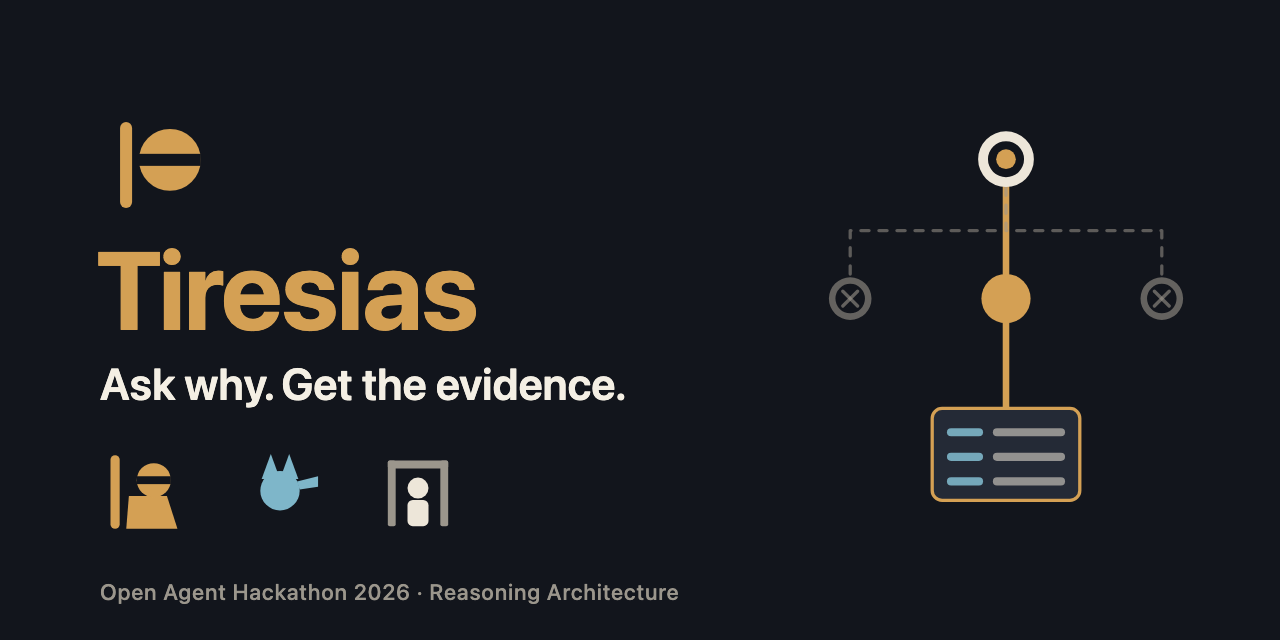
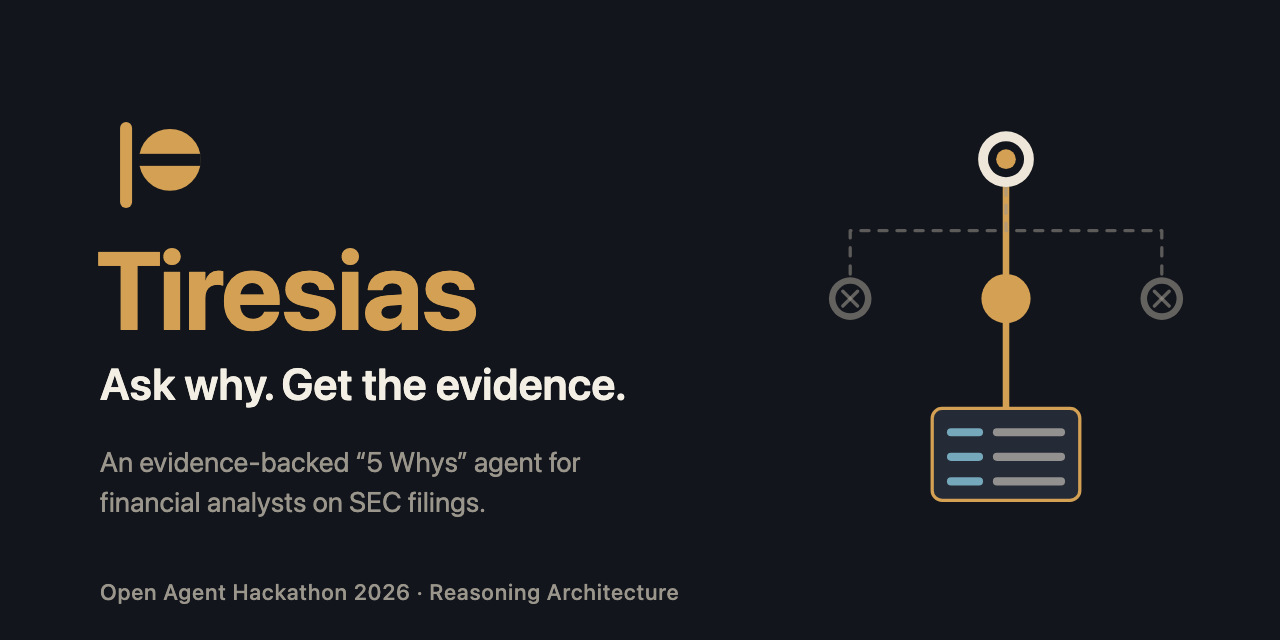
Make the brand readable where a judge actually looks.
Label the why-tree, drop the unlabelled social icons, and give You, the Sphinx, and the stepper one picture and one colour each.

Changed region(s): [[0.0625, 0.6875, 0.4688, 0.8438]]

diff --git a/services/agent/src/tiresias_agent/web/app.css b/services/agent/src/tiresias_agent/web/app.css
@@ -65,6 +65,7 @@ code, pre, .mono { font-family: var(--mono); font-size: 12.5px; }
 .who-icon { width: 22px; height: 22px; }
 .inline-icon { width: 16px; height: 16px; vertical-align: -3px; }
 .empty { color: var(--stone); }
+.empty-tree { display: block; width: 100%; max-height: 140px; object-fit: contain; margin: 0 auto 8px; }
 .note { color: var(--stone); font-size: 13px; }
 .demo-note { border: 1px solid var(--line); border-radius: 6px; padding: 8px 10px; }
 
@@ -276,8 +277,8 @@ pre { white-space: pre-wrap; overflow-wrap: anywhere; background: var(--ink-3); 
   font-size: 11px; font-weight: 600; letter-spacing: .02em; color: var(--stone); background: transparent;
   border: 0; border-right: 1px solid var(--line); }
 .s-progress .step:last-child { border-right: 0; }
-.s-progress .step-btn { all: unset; box-sizing: border-box; display: block; width: 100%; cursor: pointer;
-  padding: 8px 6px; color: inherit; text-align: center; }
+.s-progress .step-btn { all: unset; box-sizing: border-box; display: flex; flex-direction: row; align-items: center;
+  justify-content: center; gap: 4px; width: 100%; cursor: pointer; padding: 8px 6px; color: inherit; text-align: center; }
 .s-progress .step-btn:focus-visible { outline: 2px solid var(--celeste); outline-offset: -2px; }
 .s-progress .step.done { background: #3d4a32; color: var(--parchment); }
 .s-progress .step.active { background: var(--bronze); color: var(--ink); }
@@ -285,6 +286,9 @@ pre { white-space: pre-wrap; overflow-wrap: anywhere; background: var(--ink-3); 
 .s-progress.complete .step.done { background: var(--sage); color: var(--ink); }
 .s-progress .step.focus { box-shadow: inset 0 0 0 2px var(--parchment); }
 .s-progress .step-label { display: block; white-space: nowrap; overflow: hidden; text-overflow: ellipsis; }
+.step-icon { width: 12px; height: 12px; flex: none; background: currentColor;
+  -webkit-mask: var(--icon) center / contain no-repeat;
+  mask: var(--icon) center / contain no-repeat; }
 @keyframes pulse { 50% { opacity: .2; } }
 @media (prefers-reduced-motion: reduce) { .msg.typing .bubble { animation: none; } }
 
@@ -343,17 +347,20 @@ pre { white-space: pre-wrap; overflow-wrap: anywhere; background: var(--ink-3); 
 .msg.you, .msg.sphinx, .msg.decision { justify-content: flex-end; }
 .msg.you .avatar, .msg.sphinx .avatar, .msg.decision .avatar { order: 1; }
 .avatar { width: 40px; height: 40px; border-radius: 50%; object-fit: cover; background: var(--ink-3); flex: none; }
+.msg.tiresias .avatar { outline: 2px solid var(--bronze); outline-offset: 2px; }
+.msg.sphinx .avatar { outline: 2px solid var(--celeste); outline-offset: 2px; }
+.msg.you .avatar, .msg.decision .avatar { outline: 2px solid var(--parchment); outline-offset: 2px; }
 .bubble { flex: 0 1 auto; width: fit-content; max-width: min(34rem, calc(100% - 54px)); padding: 8px 12px; font-size: 14px; }
 .msg.tiresias .bubble { background: var(--ink); border: 1px solid var(--line); border-radius: 4px 14px 14px 14px; }
 .msg.you .bubble, .msg.decision .bubble { background: #2a2924; border: 1px solid #6e6758; border-radius: 14px 4px 14px 14px; }
-.msg.sphinx .bubble { background: #2c2418; border: 1px solid #8a6a3a; border-radius: 14px 4px 14px 14px; }
+.msg.sphinx .bubble { background: #2c2418; border: 1px solid var(--celeste); border-radius: 14px 4px 14px 14px; }
 .bubble .who { display: block; font-size: 12px; font-weight: 600; margin-bottom: 2px; }
 .msg.you .who, .msg.decision .who { color: var(--parchment); }
 .invoke { font-style: italic; color: var(--parchment); }
 .msg.tiresias .who { color: var(--bronze); }
-.msg.sphinx .who { color: #e0c48a; }
+.msg.sphinx .who { color: var(--celeste); }
 .msg.k-answer .bubble { border-color: var(--bronze); }
-.riddle { font-style: italic; color: #e0c48a; }
+.riddle { font-style: italic; color: var(--celeste); }
 .cot { margin-top: 6px; font-size: 12.5px; }
 .cot > summary { cursor: pointer; color: var(--celeste); font-size: 12px; }
 .cot-body { margin: 6px 0 0; color: var(--stone); white-space: pre-wrap; }

diff --git a/services/agent/src/tiresias_agent/web/story.js b/services/agent/src/tiresias_agent/web/story.js
@@ -10,8 +10,8 @@
 const STEPS = [
   { id: "understand", label: "Understand", icon: "phase-understand.svg" },
   { id: "recall", label: "Recall", icon: "phase-recall.svg" },
-  { id: "drill", label: "Drill down", icon: "phase-drill.svg" },
-  { id: "fetch", label: "Fetch missing data", icon: "phase-source.svg" },
+  { id: "drill", label: "Drill", hint: "Drill down", icon: "phase-drill.svg" },
+  { id: "fetch", label: "Fetch", hint: "Fetch missing data", icon: "phase-source.svg" },
   { id: "answer", label: "Answer", icon: "phase-reconcile.svg" },
 ];
 // orchestrator phase -> step (loop_a and loop_b are wrappers: frame and recall run inside loop_a)
@@ -631,8 +631,9 @@ function renderSteps(s) {
       sEl("button", { type: "button", class: "step-btn",
         "aria-current": status === "active" ? "step" : null,
         "aria-pressed": focus ? "true" : "false",
-        title: `Show ${st.label} in the conversation`,
+        title: `Show ${st.hint || st.label} in the conversation`,
         onclick: () => jumpToStep(st.id) },
+        sEl("span", { class: "step-icon", "aria-hidden": "true", style: `--icon: url("${st.icon}")` }),
         sEl("span", { class: "step-label", text: st.label })));
   }));
 }
@@ -687,7 +688,12 @@ function evidenceChip(n) {
 function renderTreePane(s) {
   const nodes = [...s.nodes.values()];
   const box = S("s-tree");
-  if (!nodes.length) { box.replaceChildren(sEl("p", { class: "note", text: "The why-tree grows here." })); return; }
+  if (!nodes.length) {
+    box.replaceChildren(
+      sEl("img", { class: "empty-tree", src: "empty-investigation.svg", alt: "" }),
+      sEl("p", { class: "note", text: "The why-tree grows here." }));
+    return;
+  }
   const kids = new Map();
   for (const n of nodes) {
     const k = n.parent_id && s.nodes.has(n.parent_id) ? n.parent_id : "";

diff --git a/services/agent/src/tiresias_agent/web/index.html b/services/agent/src/tiresias_agent/web/index.html
@@ -6,7 +6,7 @@
   <title>Tiresias</title>
   <meta name="description" content="An evidence-backed 5 Whys root-cause agent for SEC filings.">
   <link rel="icon" href="logo.svg" type="image/svg+xml">
-  <link rel="stylesheet" href="app.css?v=story-ih">
+  <link rel="stylesheet" href="app.css?v=brand-ux">
 </head>
 <body>
   <header class="top">
@@ -141,6 +141,7 @@
     <section class="panel run" aria-labelledby="run-h">
       <h2 id="run-h"><img src="tiresias.svg" alt="" class="who-icon"> Investigation</h2>
       <div id="run-empty" class="empty">
+        <img class="empty-tree" src="empty-investigation.svg" alt="">
         <p>Pick a company and a suggested question, or ask your own.</p>
         <p id="demo-note" class="note demo-note" hidden></p>
         <p class="note">Tiresias asks "why?" one level at a time. Every link it keeps is a SQL query and the rows it returned; the critic (<img src="sphinx.svg" alt="the Sphinx" class="inline-icon">) tests each one, and you (<img src="you.svg" alt="you" class="inline-icon">) decide at the gates.</p>
@@ -173,7 +174,7 @@
 
     <!-- 3. Evidence -->
     <section class="panel evidence" aria-labelledby="ev-h">
-      <h2 id="ev-h"><img src="sphinx.svg" alt="" class="who-icon"> Evidence</h2>
+      <h2 id="ev-h"><span class="data-mark" aria-hidden="true">SQL</span> Evidence</h2>
       <div id="evidence" class="empty"><p>Select a link in the why-tree to see the SQL and the rows it rests on.</p></div>
       <div id="memory-panel" hidden></div>
     </section>
@@ -185,7 +186,7 @@
     <a href="/docs">API</a>
   </footer>
 
-  <script src="app.js?v=story-ih"></script>
-  <script src="story.js?v=story-ih"></script>
+  <script src="app.js?v=brand-ux"></script>
+  <script src="story.js?v=brand-ux"></script>
 </body>
 </html>

diff --git a/scripts/render_art.py b/scripts/render_art.py
@@ -113,10 +113,12 @@ def edge(x1, y1, x2, y2, color, width, dash: str | None = None, opacity=1.0) -> 
 # ---- the why-tree motif -----------------------------------------------------------------------
 # One root, three candidate causes; the middle one is accepted and drills one level deeper to the
 # evidence (a small table of rows). Pruned causes are stone and dashed and end in a cross. The
-# same motif is used on the cover, the social card and the empty state, at different scales.
+# cover and the social card use this motif. Labels default off, so only the cover names the parts.
 
 
-def why_tree(ox: float, oy: float, s: float, dim: float = 1.0, rows: bool = True) -> str:
+def why_tree(
+    ox: float, oy: float, s: float, dim: float = 1.0, rows: bool = True, labels: bool = False
+) -> str:
     """Why-tree drawn in a 600×520 box at (ox, oy), scaled by s."""
 
     def X(v):
@@ -180,6 +182,15 @@ def why_tree(ox: float, oy: float, s: float, dim: float = 1.0, rows: bool = True
             out.append(
                 f'  <rect x="{lx + 74 * s:g}" y="{ry:g}" width="{88 * s:g}" height="{10 * s:g}" rx="{5 * s:g}" fill="{PARCHMENT}" opacity="{0.55 * dim:g}"/>\n'
             )
+    if labels:
+        # ~22px on the cover (s=1.30). y is the alphabetic baseline.
+        label_size = 22 * s / 1.30
+        # Right of the solid bronze middle node, clear of the connector under it.
+        out.append(text(X(344), Y(236), "accepted", label_size, TEXT, 600))
+        # Once, in the crook of the left dashed branch, above its cross.
+        out.append(text(X(156), Y(182), "pruned", label_size, TEXT, 600))
+        # Right of the evidence table.
+        out.append(text(X(406), Y(426), "rows", label_size, TEXT, 600))
     return "".join(out)
 
 
@@ -215,7 +226,7 @@ def cast_row(x: float, y: float, size: float, gap: float, labels: bool, label_si
 def cover_svg() -> str:
     w, h = 1920, 1080
     body = []
-    body.append(why_tree(1110, 170, 1.30, dim=1.0))
+    body.append(why_tree(1110, 170, 1.30, dim=1.0, labels=True))
     body.append(place(render_brand.logo_svg(), 150, 150, 150))
     body.append(text(150, 430, "Tiresias", 150, BRONZE, 700, spacing=-2))
     body.append(text(156, 520, "Ask why. Get the evidence.", 58, TEXT, 600))
@@ -251,7 +262,8 @@ def social_svg() -> str:
     body.append(place(render_brand.logo_svg(), 96, 110, 110))
     body.append(text(96, 330, "Tiresias", 110, BRONZE, 700, spacing=-1))
     body.append(text(100, 400, "Ask why. Get the evidence.", 44, TEXT, 600))
-    body.append(cast_row(100, 450, 84, 54, False, 0))
+    body.append(text(100, 472, "An evidence-backed “5 Whys” agent for", 28, STONE))
+    body.append(text(100, 512, "financial analysts on SEC filings.", 28, STONE))
     body.append(
         text(
             100,
@@ -267,16 +279,13 @@ def social_svg() -> str:
 
 
 def empty_state_svg() -> str:
-    """For the Investigation panel before a run: the tree waits, the cast stands by. No text."""
+    """The question node alone: parchment ring, bronze core, before any cause. No text."""
     w, h = 640, 360
-    body = []
-    body.append(why_tree(170, 20, 0.62, dim=0.85))
-    body.append(place(render_brand.tiresias_svg(), 40, 40, 96, "e1"))
-    body.append(place(render_brand.sphinx_svg(), 504, 128, 96, "e2"))
-    body.append(place(render_brand.you_svg(), 60, 232, 96, "e3"))
-    return doc(
-        w, h, "Tiresias, the Sphinx and You beside an empty why-tree", "".join(body), bg=None
+    cx, cy, s = w / 2, h / 2, 2.8
+    body = ring(cx, cy, 34 * s, 22 * s, PARCHMENT) + (
+        f'  <circle cx="{cx:g}" cy="{cy:g}" r="{12 * s:g}" fill="{BRONZE}"/>\n'
     )
+    return doc(w, h, "An empty why-tree: the question, before any cause", body, bg=None)
 
 
 def why_tree_svg() -> str:

diff --git a/scripts/render_brand.py b/scripts/render_brand.py
@@ -93,12 +93,13 @@ def sphinx_svg() -> str:
 
 
 def you_svg() -> str:
+    """A stone doorway and a parchment spark. No figure."""
     return _svg(
         _rect(18, 16, 12, 100, STONE, rx=3)
         + _rect(98, 16, 12, 100, STONE, rx=3)
         + _rect(18, 16, 92, 12, STONE, rx=3)
-        + _circle(64, 58, 16, PARCHMENT)
-        + _rect(48, 76, 32, 40, PARCHMENT, rx=8),
+        + _rect(18, 104, 92, 12, STONE, rx=3)
+        + _rect(60, 44, 8, 40, PARCHMENT, rx=4),
         "You",
     )
 
@@ -191,8 +192,8 @@ def render_png(kind: str, dest: Path, px: int) -> None:
         _draw_rect(draw, px, 18, 16, 12, 100, STONE, rx=3)
         _draw_rect(draw, px, 98, 16, 12, 100, STONE, rx=3)
         _draw_rect(draw, px, 18, 16, 92, 12, STONE, rx=3)
-        _draw_circle(draw, px, 64, 58, 16, PARCHMENT)
-        _draw_rect(draw, px, 48, 76, 32, 40, PARCHMENT, rx=8)
+        _draw_rect(draw, px, 18, 104, 92, 12, STONE, rx=3)
+        _draw_rect(draw, px, 60, 44, 8, 40, PARCHMENT, rx=4)
     else:
         raise ValueError(kind)
     dest.parent.mkdir(parents=True, exist_ok=True)

diff --git a/docs/agents-reference.md b/docs/agents-reference.md
@@ -13,7 +13,7 @@ All under `services/agent/src/tiresias_agent/`. Each sponsor client takes an opt
 | `orchestrator.py` | **Entry point: `run_investigation(request, **same kwargs as run_loop_a, discovery=None, zetaris_client=None, data_dir=None, memory_client=None)` → `RunResult`** (both also take `lanes=` a `model_lanes.ModelLanes`, built from the request's depth and env when omitted; see `agents/model_lanes.py`; `depth_plan(request, switch=None, unavailable=None)` → `RunDepth`, the depth and expected wait before a run (the 202 body) and on `RunResult.depth`): Loop A, then `LoopB` when Loop A ends at `evidence-frontier` with an `InformationNeed` and a framed effect (otherwise a `loop_b` trace line says why it was skipped). **Loop A only:** `run_loop_a(request, *, source=None, tracer=None, gate=None, budgets=None, logs_dir=None)`. Neither raises for a bad case (structured `error`, or end state `budget`). **Both first resolve the asked entity** (`agents/entity_resolver.py`, phase `resolve_entity`), **then run the scope check** (`agents/scope.py`, phase `scope_check`: out of scope ends at `evidence-frontier` with `RunResult.scope` and nothing registered) and, live, register it if Zetaris lacks it (`onboarder.onboard_entity`, phase `register_entity`, behind the `source` gate, counted in `MAX_NEW_SOURCES_PER_RUN`, deadline = run start + `RUN_BUDGET_SECONDS`); an unresolvable/ambiguous entity, a denial, the cap or a failed registration ends at `evidence-frontier` with the reason, an invalid ticker/CIK is an `InvalidInput` error. Loop A: framer → (hypothesiser → analyst ⇄ critic [→ gate])* → gap analyst → reporter; stops at the first accepted causal link the asker's levers can act on, digs under the strongest breakdown otherwise. Loop B: source scout → onboarder [source gate] → `reconciler` (analyst + critic) → the same asker-relative stopping rule (`actionable` / `branched` / `external-driver`); an unresolvable hint, a gate denial, a failed registration or missing data keeps `evidence-frontier` with `Loop B: <why>` appended to `information_need.reason`; the source cap or the wall clock gives `budget`. **Live only (B-24):** before anything else the run checks Zetaris (`adapters.zetaris.check_liveness`, one `liveness` line; down means the run's client sends nothing more and every read is served from the sample, traced `degraded`); it `pin`s the asked entity's companyfacts table and, after the scout, the Loop B counterparty's in `FACTS_CACHE`, so the cache cap never evicts them while the run goes on; after the `scout` phase it releases the discovery tables the run cached except the asked entity's and the chosen counterparty's (`release_cache`), and at the end of the run releases what is left (except the asked entity's) and unpins. Sample mode does none of this. **Memory (`run_investigation` only, `agents/memory.py`):** the run's `MemoryRun` comes from `RunOptions.memory`, else `MEMORY_MODE` (`memory_client` defaults to a `CognitionClient` on `COGNITION_URL`); warm, phase `recall` runs after `frame`, Loop A passes `memory.preferences()` to the hypothesiser and `memory.observe(node, frame)` after each tested node (a conclusive lesson stops the level: the rest are `memory.skip`ped; the why-tree is appended in the rules' node order), Loop B observes the reconcile node; if a skip happened and the run ends outside `actionable`/`branched`/`external-driver`, `memory.fall_back` and Loop A (and B) run once more from the frame with every candidate, counters carried over; phase `remember` then sends `helpful` feedback and the write-back. `RunResult.memory` reports it; `stats.gate_decisions` includes the memory gate. `run_loop_a` has no memory (`RunResult.memory` null). CLI below (`--memory warm|cold`, `--interactive`: answer each gate on stdin through `stdin_ask`, an empty line takes the proposal, end of input leaves it to the policy). Both entry points take `ask=` (an interactive gate channel, used when `hitl_mode` is `interactive` and no `gate` is given). |
 | `runs.py` | Run registry behind the HTTP API. `RunRegistry().start(request, run_id=None)` → `RunRecord` (runs in a daemon thread; raises `RunConflict` for a duplicate id, `RegistryBusy` beyond `MAX_CONCURRENT_RUNS`, default 4); keeps the last `RUNS_REGISTRY_SIZE` runs (default 50, oldest finished evicted) and up to `MAX_TRACE_LINES_PER_RUN` lines each (default 5000; the trace file keeps all). `RunRecord.wait(timeout)`, `.follow()` (replay then live lines, for SSE), `.summary()` (the `GET /runs/{id}` body, with `hitl_mode` and `waiting_gate`: the pending `GateWaiting` or null). Adds `api` trace lines `run_accepted` / `run_finished` / `run_failed`. **`runs.execute(...)` is the one place the API calls the pipeline** (`orchestrator.run_investigation`, which takes `ask=`). `runs.hitl_mode(request)` = `RunOptions.hitl_mode`, else `HITL_MODE`; when it is `interactive`, the run gets `RunRecord.gates = GateChannel(...)` (deadline = start + `RUN_BUDGET_SECONDS`) and the runner is called with `ask=record.gates.ask`; otherwise the runner is called exactly as before. |
 | `app.py` | FastAPI app. `GET /entities?q=&limit=&sample_mode=` and `GET /entities/{cik}/suggestions?role=&limit=&sample_mode=` (`entities.py`; 404 `EntityNotFound` / `EntityNotInSample`, 409 `EntityNotRegistered`, 422 bad CIK; `api` trace lines to `trace-<X-Run-Id>.jsonl`, else one `trace-api-YYYYMMDD.jsonl` per day). `POST /run` = `registry.start` + wait up to `RUN_BUDGET_SECONDS` + 30 s (`runs.wait_budget_seconds()`); `POST /runs` (202 `{run_id, status, events, depth}`, `depth` = `orchestrator.depth_plan`: the depth and its expected wait before the run starts), `GET /runs/{id}`, `GET /runs/{id}/events` (SSE: `event: trace` per JSONL line, `: keepalive` every 15 s idle, one final `event: end`; the gate `waiting` / `answered` / `expired` / `decide` lines arrive on it, so a UI needs no polling). **Interactive gates:** `GET /runs/{id}/gates` → `GateList {run_id, hitl_mode, waiting_gate, gates}` (empty for auto/scripted runs); `POST /runs/{id}/gates/{gate_id}` with `GateAnswer {choice, note?, auto?}` → 200 the answered `GateWaiting` (`decided_by` `human`, or `ui-auto` when `auto: true`: a UI's countdown applied the proposal, and only the proposal may be applied so, else 422); `POST /runs/{id}/gates/{gate_id}/hold` with optional `GateHold {note?}` → 200 the `GateWaiting` with status `held` (idempotent; 404 / 409 like an answer): the gate waits for the user's answer, bounded only by the run budget; 404 `RunNotFound` / `GateNotFound` (also for a run without interactive gates), 409 `GateAlreadyAnswered` / `GateExpired`, 422 `ValidationError` (a choice not in `options`, or a bad body). Every error is the contract's `Error` shape via `error_response(...)`: 422 `ValidationError` (body, JSON or `X-Run-Id`), 404 `RunNotFound`, 409 `RunConflict`, 429 `TooManyRuns`, 500 (pipeline raised), 504 `RunTimeout`, 501 `NotImplemented`. `POST /memory/purge?namespace=` (optional body `PurgeRequest {namespace, requested_by}`) calls `CognitionClient.purge` through `app.memory_client(run_id, tracer)` (tests replace it) and returns `PurgeResult {status: purged, purged, namespace, requested_by}` with the count cognition confirmed; unreachable cognition is 503 `MemoryUnavailable` (recoverable), a refused or malformed reply 502 `MemoryError`, never a claimed purge; one `api` / `memory_purge` trace line either way (to `trace-<X-Run-Id>.jsonl`, else `trace-api-YYYYMMDD.jsonl`). `X-Run-Id` (`[A-Za-z0-9._-]{1,100}`) is honoured and echoed. CORS is off unless `CORS_ALLOW_ORIGINS` is set. `GET /health` never waits on a dependency: `zetaris_cache` (the warm on start) and `zetaris` (`zetaris_health()`: the last liveness probe `state` `off` in sample mode / `not-checked` / `alive` / `down` / `inconclusive`, with `reason`, `checked_at`, `duration_ms`, plus `cached_facts`, `max_cached_facts`, `pinned`; contract `ZetarisHealth`). `PUBLIC_DEMO=true` (the hosted demo; `public_demo()`, read per request, reported by `/health` as `public_demo`): a run or directory call asking for live mode (or a server with `SAMPLE_MODE=false`) gets 403 `LiveModeDisabled`, `POST /memory/purge` gets 403 `PurgeDisabled` without calling cognition (`tests/test_public_demo.py`). |
-| `web/` (`index.html`, `app.js`, `story.js`, `app.css`, brand SVGs, `phase-*.svg` and `empty-investigation.svg` copied from `assets/`) | Web UI, static files mounted by `app.py` at `/ui` (`GET /` redirects there; `WEB_DIR`). **Two views of one run.** The default **Story** view (`story.js`) reads the run as a conversation: Me (Analyst) asks, Tiresias proposes (one message per why-tree level), the Sphinx answers that level with a short riddle (`sphinxRiddle`, Theban/Oedipus register; the verdict list and Nemotron's second opinion fold under "The riddle"), Tiresias speaks as the Odyssey seer (`SEER`: recall / need / found / register / lesson as one line, chain of thought under "What I hear"; the analyst opens "O wise one, I have a question to ask."), decisions follow (an automatic one as one line; with "Pause at each decision (5 s to take over)" the Sphinx asks on the user's behalf (`sphinxAsks(gateLine)`) pinned in `#s-now` under the progress bar with **Proceed**, **Take over**, `GATE_WORDS.cost`, and a 5 s countdown (`promptGate(gateLine, deps)`, `PROMPT_SECONDS`): at 0, or on Proceed, the UI posts the recommended choice to `POST /runs/{id}/gates/{gate_id}` with note `proceeded automatically after 5 s (UI)` or `proceed (UI)`; the countdown's POST carries `auto: true` (recorded as `decided_by: "ui-auto"`), and the note on the `gate`/`answered` line also says which kind it was; **Take over** first posts `POST /runs/{id}/gates/{gate_id}/hold` (`deps.hold`; a 409 shows what applied), then shows the STAR card with no countdown, "Paused · your call" and the recommended button nudged (`.btn.nudge`); a `gate`/`budget` line reads "Paused until the run budget ran out; nothing was applied on your behalf" (`outcomeText`); and the page reads it back (`answeredBy(note)`: "Proceeded automatically after 5 s" / "You proceeded with the recommendation" / "You chose"); a 409 (`GateAlreadyAnswered`, `GateExpired`) shows what applied; Take over cancels the countdown, holds the gate and opens a STAR card: Situation = the gate's `question` and short `context` facts, Task, Action buttons in plain words carrying the API's own option ids, expected Result per option, and no countdown: a held gate waits for the user's answer or the run budget; `GATE_TIMEOUT_SECONDS` bounds only a gate that is not held; the hosted demo sets 30 in `deploy/gcp/service.yaml`), and each turn's data-layer reads collapse to one line ("Zetaris · n queries · rows", or "Sample data · n reads" when every read was served from the offline slice). Beside it the why-tree grows and prunes (accepted path sage, ruled-out links shown struck through, each node a short claim plus a status mark); hovering a message highlights its node. Me (Analyst) and Sphinx bubbles sit on the right, Tiresias on the left. A single five-segment progress bar (Understand · Recall · Drill down · Fetch missing data · Answer) lights each segment as the orchestrator's `phase_start`/`phase_done` lines; steps never reached end `skipped`; each segment is a button that scrolls to that step's conversation (`jumpToStep`). At the end the result sits on top (verdict, action, share explained, residual, new sources, and a proof strip of 3 chips: Zetaris or sample data, Nightshift models from `routed_model` (or "models off in sample mode"), H-MEM recalled/stored); the conversation stays the main column and the why-tree stays the scoreboard beside it. A cellar drawer holds Trace (the tiers), Exchange (every data, model and memory call: from → to, request, response, ms, receipt or run id; it renders `endpoint`, `method`, `http_status`, `request_bytes`, `response_bytes` when a line carries them), Evidence (the selected node) and Memory, with the JSONL download. It is one pure reducer, `storyReduce(state, line)` over `storyInit(request)`, closed by `storyFinish(state, RunResult)` (the result's `why_tree` sets the final statuses), plus `starCard(gateLine)`; render functions only read that state. `app.js` feeds it (`storyStart`, `storySetRun`, `storyLine`, `storyDone`, `storyError`) from the same `POST /runs` and SSE stream, so the **Truth view** (the header switch; `data-view="debug"`) is the three-column page below, unchanged. Run settings live in the header's ⚙ menu: decisions (default **interactive**, 5 s Sphinx prompt; Automatic = `auto`), memory, depth (live only), and live/sample per run only when the server itself runs live and is not the public demo. Three example cards in a horizontal carousel post `input_examples/04`, `01` and `03` verbatim (`request` bodies unchanged; the UI's `#hitl` overwrites `options.hitl_mode` via `withSettings`). A thin client, no build step, no dependency: `GET /health` (mode badge), `GET /entities`, `GET /entities/{cik}/suggestions`, `POST /runs`, `GET /runs/{id}/events` (SSE trace, rendered per agent: Tiresias = the agent's own steps, Sphinx = `critic`, You = `gate`), `POST /runs/{id}/gates/{gate_id}` on a `gate`/`waiting` line, then `GET /runs/{id}` for the `RunResult` (why-tree, evidence rows, memory). It computes no figure and stores nothing; text goes in with `textContent` only (`tests/test_web_ui.py` checks the endpoints it calls exist and that no HTML sink is used). A cast strip above the trace counts, live from the streamed lines, what each voice did: Tiresias steps (agent lines other than `critic`, `gate`, the orchestrator and the adapters), Sphinx verdicts (`critic` lines), gate decisions (`gate`/`decide`, and how many `decided_by` human) and Zetaris SQL calls (adapter lines with `sql`). The result header carries a `Nightshift · <model> ×n` chip built from the model-call lines (`routed_model` on a line with `latency_ms`, one per Nightshift call; the critic's `second_opinion` line repeats `routed_model` and is not counted; none in sample mode or at depth `quick`). Declutter helpers (pure, in `app.js`, run in Node by `tests/test_web_ui.py`): `tier(line)` → `decision` (critic accept/prune/frontier/escalate/lesson_*, gate waiting/answered/expired/decide, onboarder register, reporter report, memory remember, a `second_opinion` with status `rejected` = model dissent, a scope check with `in_scope: false`), `evidence` (a `zetaris_adapter`/`catalog` line with `sql`), `plumbing` (api, orchestrator, model_lanes, memory_client, Memory, heartbeat, and the data layer's list_/bootstrap:/liveness/uncache/discovery_cache/register_ actions) or `step` (everything else); the trace shows decision + step by default (each `li` has `data-tier`; the counter reads `N lines, M shown`) and "every line" shows all. `acceptedPath(why_tree)` → node ids root → the deepest accepted link (rendered with class `on-path`); `ruledOut(why_tree)` → pruned links with their reason (class `ruled-out`). `sponsorSummary(lines, memory)` → `{zetaris: {sql_calls, rows, ms, registered}, sample: {sql_calls, rows, registered}, nightshift: {calls, models}, hmem: {available, recalled, stored} | null}`: a data-layer read with `source: "sample"` counts under `sample`, never under Zetaris; `sponsorBadges` renders it as a second stats row. The cast strip's Zetaris count also excludes sample reads (shown as `· N sample reads`). `present(...)` drops null children before `replaceChildren` (which would print "null"). Run settings map to `options.hitl_mode` (Story default `interactive`), `options.memory`, `options.depth` (live mode only) and `options.sample_mode` (only offered when the server runs live). |
+| `web/` (`index.html`, `app.js`, `story.js`, `app.css`, brand SVGs, `phase-*.svg` and `empty-investigation.svg` copied from `assets/`) | Web UI, static files mounted by `app.py` at `/ui` (`GET /` redirects there; `WEB_DIR`). **Two views of one run.** The default **Story** view (`story.js`) reads the run as a conversation: Me (Analyst) asks, Tiresias proposes (one message per why-tree level), the Sphinx answers that level with a short riddle (`sphinxRiddle`, Theban/Oedipus register; the verdict list and Nemotron's second opinion fold under "The riddle"), Tiresias speaks as the Odyssey seer (`SEER`: recall / need / found / register / lesson as one line, chain of thought under "What I hear"; the analyst opens "O wise one, I have a question to ask."), decisions follow (an automatic one as one line; with "Pause at each decision (5 s to take over)" the Sphinx asks on the user's behalf (`sphinxAsks(gateLine)`) pinned in `#s-now` under the progress bar with **Proceed**, **Take over**, `GATE_WORDS.cost`, and a 5 s countdown (`promptGate(gateLine, deps)`, `PROMPT_SECONDS`): at 0, or on Proceed, the UI posts the recommended choice to `POST /runs/{id}/gates/{gate_id}` with note `proceeded automatically after 5 s (UI)` or `proceed (UI)`; the countdown's POST carries `auto: true` (recorded as `decided_by: "ui-auto"`), and the note on the `gate`/`answered` line also says which kind it was; **Take over** first posts `POST /runs/{id}/gates/{gate_id}/hold` (`deps.hold`; a 409 shows what applied), then shows the STAR card with no countdown, "Paused · your call" and the recommended button nudged (`.btn.nudge`); a `gate`/`budget` line reads "Paused until the run budget ran out; nothing was applied on your behalf" (`outcomeText`); and the page reads it back (`answeredBy(note)`: "Proceeded automatically after 5 s" / "You proceeded with the recommendation" / "You chose"); a 409 (`GateAlreadyAnswered`, `GateExpired`) shows what applied; Take over cancels the countdown, holds the gate and opens a STAR card: Situation = the gate's `question` and short `context` facts, Task, Action buttons in plain words carrying the API's own option ids, expected Result per option, and no countdown: a held gate waits for the user's answer or the run budget; `GATE_TIMEOUT_SECONDS` bounds only a gate that is not held; the hosted demo sets 30 in `deploy/gcp/service.yaml`), and each turn's data-layer reads collapse to one line ("Zetaris · n queries · rows", or "Sample data · n reads" when every read was served from the offline slice). Beside it the why-tree grows and prunes (accepted path sage, ruled-out links shown struck through, each node a short claim plus a status mark); hovering a message highlights its node. Me (Analyst) and Sphinx bubbles sit on the right, Tiresias on the left. A single five-segment progress bar (Understand · Recall · Drill · Fetch · Answer) lights each segment as the orchestrator's `phase_start`/`phase_done` lines; steps never reached end `skipped`; each segment is a button that scrolls to that step's conversation (`jumpToStep`). At the end the result sits on top (verdict, action, share explained, residual, new sources, and a proof strip of 3 chips: Zetaris or sample data, Nightshift models from `routed_model` (or "models off in sample mode"), H-MEM recalled/stored); the conversation stays the main column and the why-tree stays the scoreboard beside it. A cellar drawer holds Trace (the tiers), Exchange (every data, model and memory call: from → to, request, response, ms, receipt or run id; it renders `endpoint`, `method`, `http_status`, `request_bytes`, `response_bytes` when a line carries them), Evidence (the selected node) and Memory, with the JSONL download. It is one pure reducer, `storyReduce(state, line)` over `storyInit(request)`, closed by `storyFinish(state, RunResult)` (the result's `why_tree` sets the final statuses), plus `starCard(gateLine)`; render functions only read that state. `app.js` feeds it (`storyStart`, `storySetRun`, `storyLine`, `storyDone`, `storyError`) from the same `POST /runs` and SSE stream, so the **Truth view** (the header switch; `data-view="debug"`) is the three-column page below, unchanged. Run settings live in the header's ⚙ menu: decisions (default **interactive**, 5 s Sphinx prompt; Automatic = `auto`), memory, depth (live only), and live/sample per run only when the server itself runs live and is not the public demo. Three example cards in a horizontal carousel post `input_examples/04`, `01` and `03` verbatim (`request` bodies unchanged; the UI's `#hitl` overwrites `options.hitl_mode` via `withSettings`). A thin client, no build step, no dependency: `GET /health` (mode badge), `GET /entities`, `GET /entities/{cik}/suggestions`, `POST /runs`, `GET /runs/{id}/events` (SSE trace, rendered per agent: Tiresias = the agent's own steps, Sphinx = `critic`, You = `gate`), `POST /runs/{id}/gates/{gate_id}` on a `gate`/`waiting` line, then `GET /runs/{id}` for the `RunResult` (why-tree, evidence rows, memory). It computes no figure and stores nothing; text goes in with `textContent` only (`tests/test_web_ui.py` checks the endpoints it calls exist and that no HTML sink is used). A cast strip above the trace counts, live from the streamed lines, what each voice did: Tiresias steps (agent lines other than `critic`, `gate`, the orchestrator and the adapters), Sphinx verdicts (`critic` lines), gate decisions (`gate`/`decide`, and how many `decided_by` human) and Zetaris SQL calls (adapter lines with `sql`). The result header carries a `Nightshift · <model> ×n` chip built from the model-call lines (`routed_model` on a line with `latency_ms`, one per Nightshift call; the critic's `second_opinion` line repeats `routed_model` and is not counted; none in sample mode or at depth `quick`). Declutter helpers (pure, in `app.js`, run in Node by `tests/test_web_ui.py`): `tier(line)` → `decision` (critic accept/prune/frontier/escalate/lesson_*, gate waiting/answered/expired/decide, onboarder register, reporter report, memory remember, a `second_opinion` with status `rejected` = model dissent, a scope check with `in_scope: false`), `evidence` (a `zetaris_adapter`/`catalog` line with `sql`), `plumbing` (api, orchestrator, model_lanes, memory_client, Memory, heartbeat, and the data layer's list_/bootstrap:/liveness/uncache/discovery_cache/register_ actions) or `step` (everything else); the trace shows decision + step by default (each `li` has `data-tier`; the counter reads `N lines, M shown`) and "every line" shows all. `acceptedPath(why_tree)` → node ids root → the deepest accepted link (rendered with class `on-path`); `ruledOut(why_tree)` → pruned links with their reason (class `ruled-out`). `sponsorSummary(lines, memory)` → `{zetaris: {sql_calls, rows, ms, registered}, sample: {sql_calls, rows, registered}, nightshift: {calls, models}, hmem: {available, recalled, stored} | null}`: a data-layer read with `source: "sample"` counts under `sample`, never under Zetaris; `sponsorBadges` renders it as a second stats row. The cast strip's Zetaris count also excludes sample reads (shown as `· N sample reads`). `present(...)` drops null children before `replaceChildren` (which would print "null"). Run settings map to `options.hitl_mode` (Story default `interactive`), `options.memory`, `options.depth` (live mode only) and `options.sample_mode` (only offered when the server runs live). |
 | `entities.py` | Entity directory behind the two `GET /entities` endpoints. `list_entities(q, sample=, source=, discovery=callable, tracer=, limit=)` → `EntityList`: tier `ready` = registered (live: facts table + filings view + a supported metric view, names from `sec_tickers`; sample: the slice), tier `searchable` = live `sec_tickers` matches for `q` (ticker, CIK or name, 2+ characters) and partly registered entities matching it; each with `expected_first_run` from `FIRST_RUN_SECONDS` (quick) and `expected_first_run_by_depth` (`expected_by_depth(tier, sample)`, via `config.expected_seconds`). Sample mode lists only the slice and says why in `note`; an outage serves the sample, `degraded: true`. `suggestions(cik, ...)` → `SuggestionList` for a ready entity (`suggester.suggest`), else `DirectoryError(status, type, message)`. |
 | `agents/suggester.py` | Questions from an entity's own data. `suggest(entity, source, tracer=, asker=, limit=, sample_mode=)` → `SuggestResult(suggestions, considered, rejected)`: per `knowledge.SUGGESTED_METRICS` (Revenues, NetIncomeLoss), annual facts only: **restatements** (first time two consecutive annual filings disagree on a fiscal year; newest restating filing first, at most `MAX_RESTATEMENTS`), the **largest changes** (`CHANGES_PER_METRIC` by absolute delta) and the **lowest / highest value** (only if it is the extreme of every reported annual value and the year frames). Every candidate is a `RunRequest` **validated by the framer itself** (kind as intended, relative change ≥ `MIN_RELATIVE_CHANGE` 1%); neutral wording (differ / rise / fall / was). `latest_change(entity, source, metric, asker=)` → the most recent validated change (the scope check's past-period alternative). `CachingSource` memoises the series. |
 | `agents/scope.py` | Scope check after `resolve_entity`, before Loop A. `check(request, resolution, sample=, source=, discovery=callable, tracer=, today=None)` → `ScopeCheck`. Reasons: `forecast` (`forward_cue(question)`: strong cues "what if", "will", "going to", "suppose", "what/how would" or "would … if" without a "have" within three words, always; weak cues "forecast", "predict", "projection", "outlook", "expect … to", "next year/quarter" only when the question is not framed as explaining the past, "Why did …"; or a period ending after today), `not-sec-registrant` (live `EntityNotFound` with zero `sec_tickers` rows, never when degraded), `not-in-sample` (sample). Up to `MAX_ALTERNATIVES` (3) runnable `RunRequest`s: registrants **named in the question** (capitalised phrases, `name_phrases`, each matching exactly one CIK in `sec_tickers`), the **same entity, past period**, **same SIC peers** among registered entities (`discovery.registrant` → `sic`, at most `MAX_PEER_PROBES`, cached). Registered → `suggester.latest_change`; unregistered (live) → the fiscal year between its two latest 10-K report dates, `registered: false` (the run registers it). |

diff --git a/assets/README.md b/assets/README.md
@@ -13,7 +13,7 @@ Images and the slide deck for the submission. Rows marked **[TBC]** depend on so
 | `brand/cover.svg`, `brand/social.svg` | Sources of the two PNGs above (`scripts/render_art.py --png` renders them with headless Chrome) | SVG |
 | `characters/{tiresias,sphinx,you}.svg` | The three characters as 16–32 px marks (headers, inline, Truth view) | SVG (+ 512×512 PNG each), one colour family |
 | `characters/{tiresias,sphinx,you}-portrait.png` | Story-view avatars (circular, one product ring). Tiresias linen/ivory; Sphinx golden sandstone; You = cooler stone gate + spark | 512×512 PNG, transparent corners |
-| `illustrations/empty-investigation.svg` | The cast beside an empty why-tree, for the UI's Investigation panel before a run (no text) | SVG 640×360, transparent |
+| `illustrations/empty-investigation.svg` | The question node alone (parchment ring, bronze core), for the UI's Investigation panel before a run: no cast, no branches, no text | SVG 640×360, transparent |
 | `illustrations/why-tree.svg` | The why-tree motif: one accepted cause drilled to its evidence rows, two pruned | SVG 600×520, transparent |
 | `icons/phase-{understand,recall,drill,source,reconcile}.svg` | Icons for a run-progress stepper (resolve + scope + frame → memory recall → Loop A → Loop B source → reconcile) | SVG 128×128, `currentColor` (default stone) |
 | `diagrams/architecture.svg` | Loop A / Loop B architecture (redrawn from [docs/architecture.md](../docs/architecture.md)) | SVG + 1920×1080 PNG |
@@ -73,7 +73,7 @@ Add one row per file when it lands.
 | `brand/logo.svg`, `brand/logo-1024.png` | Geometry in [`scripts/render_brand.py`](../scripts/render_brand.py), 2026-10-23, written in the same Cursor agent session (Grok 4.6, medium). PNG rasterised with Pillow from the same shapes. No third-party artwork. | None (mark only: staff + veiled disc) | Apache-2.0 |
 | `characters/tiresias.svg`, `characters/tiresias.png` | Same renderer (`render_brand.py`), 2026-10-23, same Cursor agent session (Grok 4.6, medium). Bronze, veiled eyes, staff. | None | Apache-2.0 |
 | `characters/sphinx.svg`, `characters/sphinx.png` | Same renderer (`render_brand.py`), 2026-10-23, same Cursor agent session (Grok 4.6, medium). Celeste, ears and one wing. | None | Apache-2.0 |
-| `characters/you.svg`, `characters/you.png` | Same renderer (`render_brand.py`), 2026-10-23, same Cursor agent session (Grok 4.6, medium). Parchment figure in a stone gate. | None | Apache-2.0 |
+| `characters/you.svg`, `characters/you.png` | Same renderer (`render_brand.py`), 2026-10-23, same Cursor agent session (Grok 4.6, medium). Stone gate and a parchment spark, no figure. | None | Apache-2.0 |
 | `characters/tiresias-portrait.png` | Cursor image session 2026-10-26 (`dir-tiresias-linen`); circular crop, no stretch. Linen/ivory robe, copper staff, veiled. Not a likeness of a real person. | None | Apache-2.0 |
 | `characters/sphinx-portrait.png` | Cursor image session 2026-10-26: the sphinx from `dir-lock-cast-and-tree` redrawn as a filled circle (`dir-sphinx-golden-round`). Golden sandstone brick — stone with a gold hue, to contrast linen Tiresias. One product ring. | None | Apache-2.0 |
 | `characters/you-portrait.png` | Same session (`dir-you-gate-spark-a`). Stone door + spark; no face. Circular crop. | None | Apache-2.0 |

diff --git a/README.md b/README.md
@@ -77,7 +77,7 @@ Each result leads with the decision: `end_state` (`actionable`, `evidence-fronti
 
 Open **http://localhost:8000** once the stack is up (it redirects to `/ui/`). Story: drag the carousel and click one of the three example questions. Truth: search a company and click one of the questions Tiresias found in its filings:
 
-- **Story view (default)**: drag the carousel and click a question. A single progress bar fills Understand → Recall → Drill down → Fetch missing data → Answer; click a segment to wind back. Tiresias and the Sphinx speak in short lines from the Odyssey and Oedipus Rex (the seer who hears, then the riddle); expand "What I hear" / "The riddle" for the chain of thought. The analyst opens with "O wise one, I have a question to ask." A waiting decision pins under the bar with what Proceed will take, so you do not scroll to find it. The why-tree stays the scoreboard beside the conversation. Click a tree node for SQL in the cellar.
+- **Story view (default)**: drag the carousel and click a question. A single progress bar fills Understand → Recall → Drill → Fetch → Answer; click a segment to wind back. Tiresias and the Sphinx speak in short lines from the Odyssey and Oedipus Rex (the seer who hears, then the riddle); expand "What I hear" / "The riddle" for the chain of thought. The analyst opens with "O wise one, I have a question to ask." A waiting decision pins under the bar with what Proceed will take, so you do not scroll to find it. The why-tree stays the scoreboard beside the conversation. Click a tree node for SQL in the cellar.
 - **Settings (⚙)**: Story defaults to "Pause at each decision (5 s to take over)": the Sphinx asks each decision on your behalf and proceeds with the recommendation after 5 s, unless you press **Take over**. Take over is your call, full stop: the gate is held (`POST /runs/{id}/gates/{gate_id}/hold`), no countdown or server deadline applies the recommendation any more, and a card (Situation, Task, Action, expected Result) waits for your choice with the recommended option highlighted. Only the run's wall-clock budget still bounds it; if that runs out, nothing is applied on your behalf and the run stops at end state `budget`. Switch to Automatic if you want Tiresias to follow its recommendation with no pause. Memory warm or cold; depth (live only).
 - **Truth**: the full three-column page (Ask / Investigation / Evidence): companies and questions, the streamed trace with its SQL, the result, the why-tree, the evidence panel and the H-MEM lessons. Geometric 16 px character marks, not the Story portraits.
 
